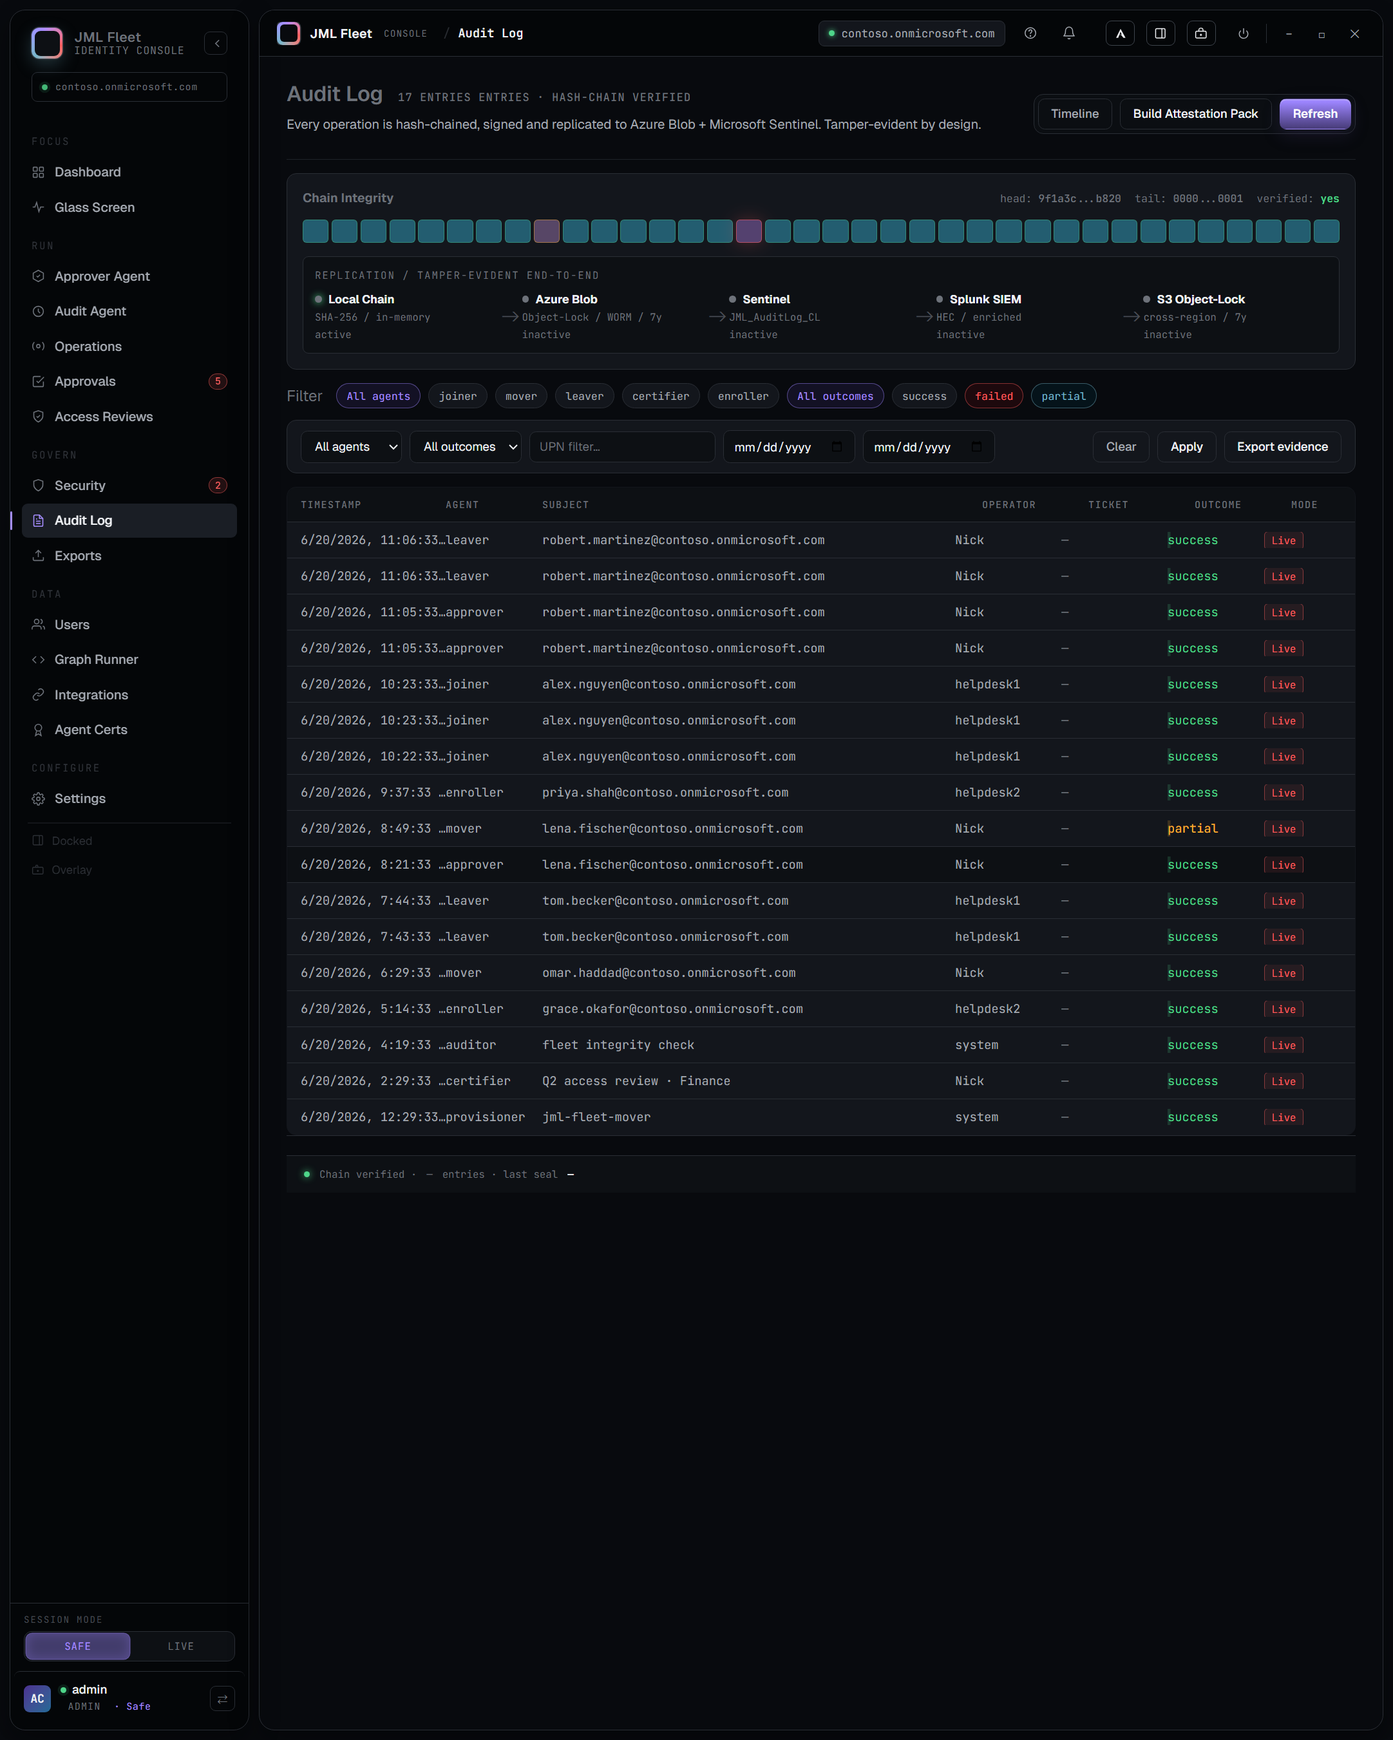
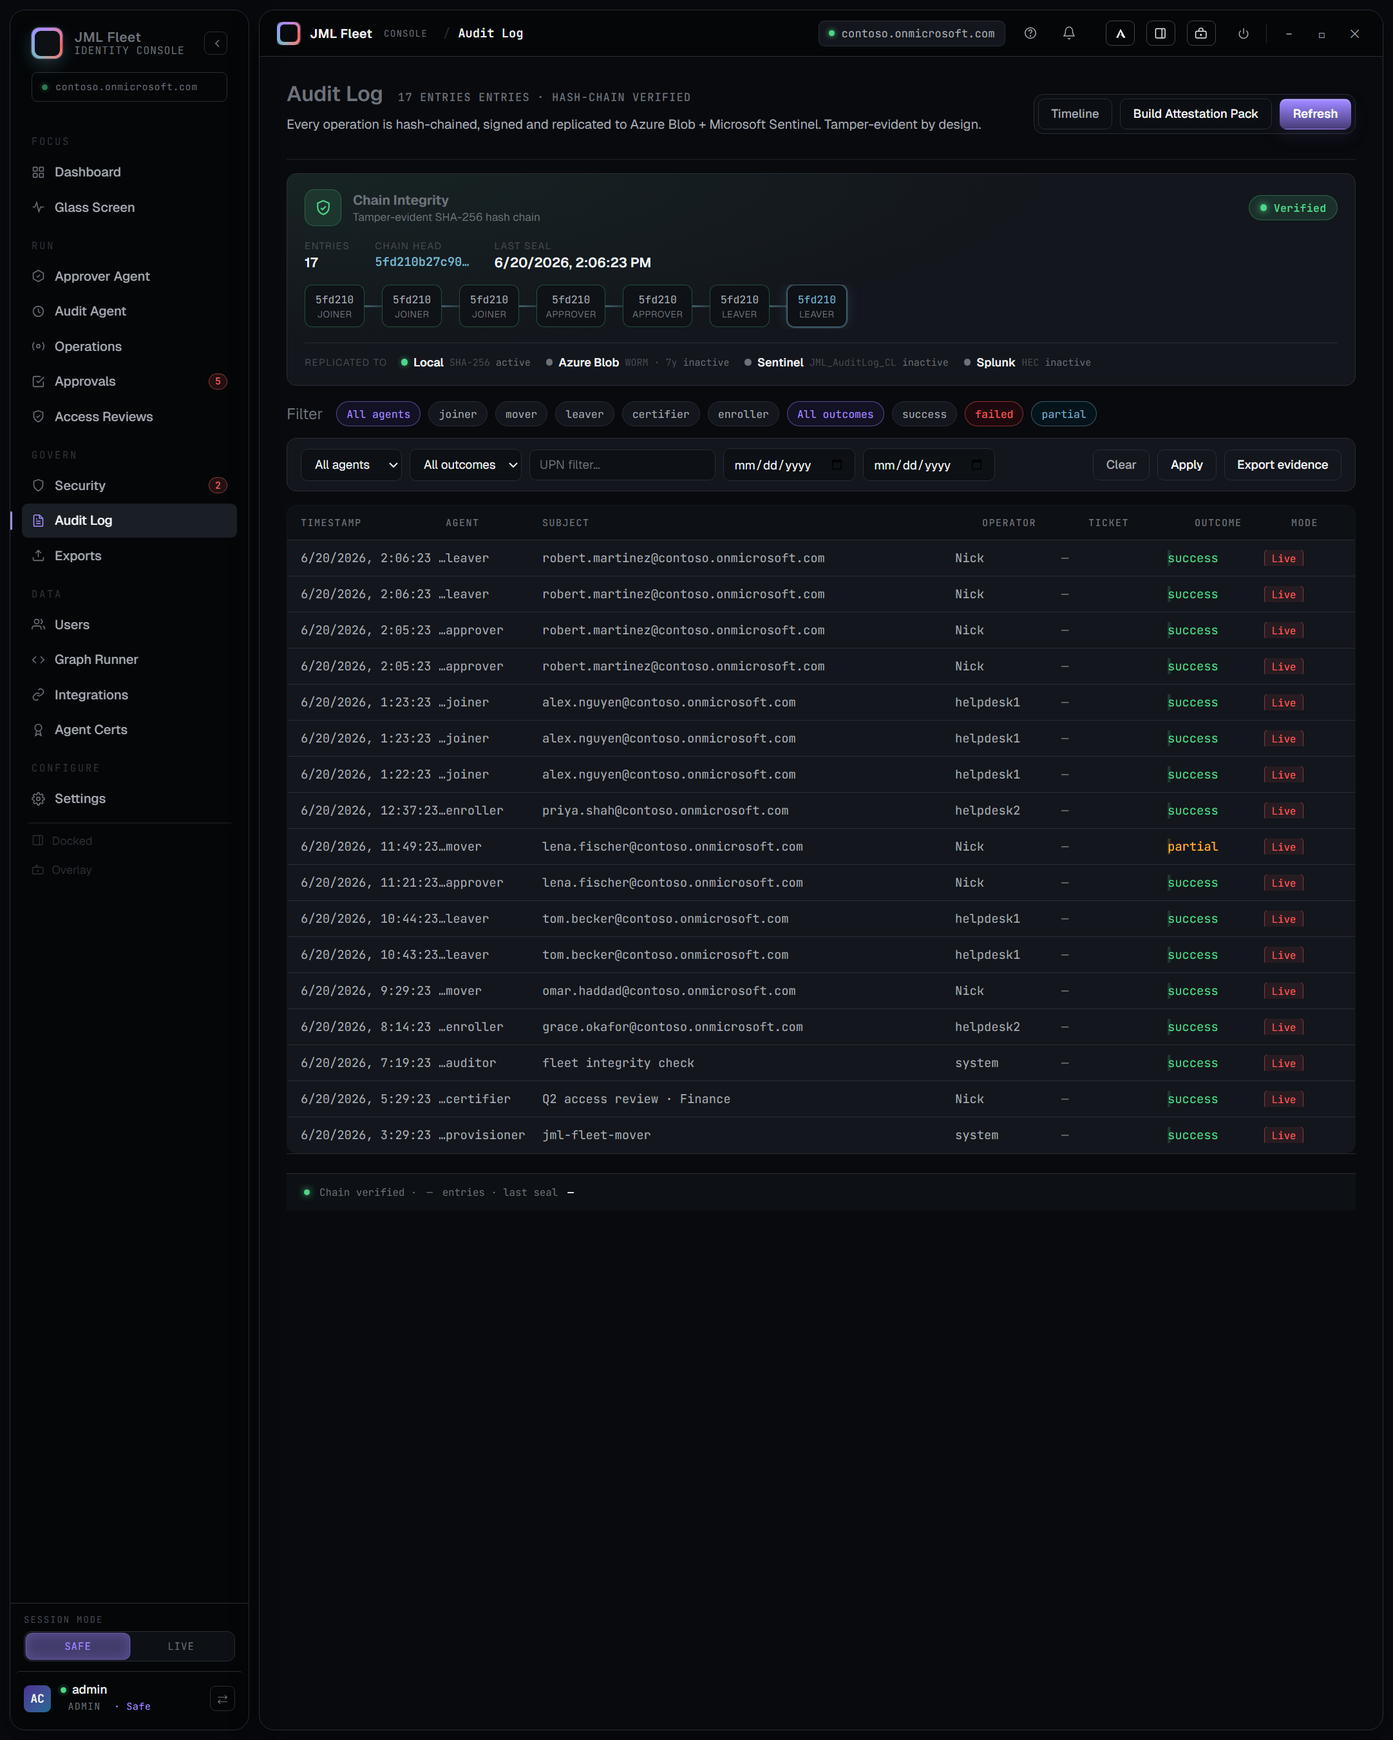
Audit Log: revamp the Chain Integrity panel (data-driven, modern)
The old panel was stale and misleading: hardcoded head/tail hashes, a 36-square
decorative "blockchain" grid (with static warn/crit blocks on a verified chain),
and an S3 hop that was never wired.

Replaced with a clean, data-driven card:
- Real verification: checks the actual prevHash->hash linkage across the audit
  entries and flips a Verified / Broken-link badge accordingly.
- Real stats: entry count, chain head hash, last seal time.
- The decorative grid is replaced by the ACTUAL recent chain links rendered as
  connected nodes (hash fragment + agent, head highlighted), newest on the right.
- Replication strip cleaned up (Local/Blob/Sentinel/Splunk, all real-wired; S3
  removed). Modern shield + badge styling cohesive with the rest of the console.
- Demo audit data now carries a coherent synthetic hash chain so the panel
  renders realistically in capture/demo mode. Screenshot refreshed.

127 tests pass; GUI capture verified.

diff --git a/electron-app/renderer/styles.css b/electron-app/renderer/styles.css
@@ -4681,99 +4681,90 @@ label { font-size: 12.5px; color: var(--text-2); }
 .gl-label { color: var(--text-3); font-size: 12px; }
 .gl-val { color: var(--text); font-size: 12px; font-weight: 500; }
 
-.v2-chain-integrity {
-  margin-bottom: 14px;
-  padding: 16px;
+/* ── Chain Integrity panel (Audit Log) ─────────────────────────── */
+.chain-integrity-card {
+  margin-bottom: 16px;
+  padding: 16px 18px;
   border: 1px solid var(--border);
-  border-radius: var(--r-lg);
-  background: var(--surface);
+  border-radius: var(--r-lg, 14px);
+  background:
+    radial-gradient(120% 140% at 0% 0%, color-mix(in oklch, var(--ok) 7%, transparent), transparent 60%),
+    var(--surface, var(--bg-1));
+  position: relative;
+  overflow: hidden;
 }
-.v2-chain-integrity .chain-head {
-  display: flex;
-  justify-content: space-between;
-  gap: 14px;
-  align-items: baseline;
-  margin-bottom: 14px;
+.chain-integrity-card[data-verified="false"] {
+  background:
+    radial-gradient(120% 140% at 0% 0%, color-mix(in oklch, var(--coral) 9%, transparent), transparent 60%),
+    var(--surface, var(--bg-1));
+  border-color: color-mix(in oklch, var(--coral) 35%, var(--border));
 }
-.v2-chain-integrity h3 {
-  margin: 0;
-  font-size: 13px;
-  font-weight: 650;
+.ci-head { display: flex; align-items: center; gap: 12px; }
+.ci-shield {
+  display: grid; place-items: center; width: 38px; height: 38px; flex-shrink: 0;
+  border-radius: 10px; color: var(--ok);
+  background: color-mix(in oklch, var(--ok) 12%, transparent);
+  border: 1px solid color-mix(in oklch, var(--ok) 30%, transparent);
 }
-.v2-chain-integrity .chain-meta {
-  display: flex;
-  gap: 14px;
-  font-family: var(--mono);
-  font-size: 11px;
-  color: var(--text-3);
+.chain-integrity-card[data-verified="false"] .ci-shield {
+  color: var(--coral); background: color-mix(in oklch, var(--coral) 12%, transparent);
+  border-color: color-mix(in oklch, var(--coral) 35%, transparent);
 }
-.v2-chain-blocks {
-  display: grid;
-  grid-template-columns: repeat(36, 1fr);
-  gap: 3px;
-  margin-bottom: 14px;
+.ci-titles { display: flex; flex-direction: column; gap: 1px; }
+.ci-titles h3 { margin: 0; font-size: 14px; font-weight: 650; letter-spacing: -0.01em; }
+.ci-sub { font-size: 11.5px; color: var(--muted); }
+.ci-badge {
+  margin-left: auto; display: inline-flex; align-items: center; gap: 7px;
+  padding: 5px 11px; border-radius: 999px;
+  font-family: var(--mono); font-size: 11px; font-weight: 600; letter-spacing: .02em;
+  background: color-mix(in oklch, var(--ok) 14%, transparent);
+  color: var(--ok); border: 1px solid color-mix(in oklch, var(--ok) 32%, transparent);
 }
-.v2-chain-block {
-  height: 24px;
-  border-radius: var(--r-sm);
-  background: color-mix(in oklch, var(--ok) 35%, var(--surface-3));
-  border: 1px solid color-mix(in oklch, var(--ok) 38%, transparent);
+.ci-badge.crit { background: color-mix(in oklch, var(--coral) 14%, transparent); color: var(--coral); border-color: color-mix(in oklch, var(--coral) 38%, transparent); }
+.ci-badge.muted { background: color-mix(in oklch, var(--muted) 12%, transparent); color: var(--muted); border-color: var(--border); }
+.ci-badge-dot { width: 7px; height: 7px; border-radius: 50%; background: currentColor; box-shadow: 0 0 7px currentColor; }
+
+.ci-stats { display: flex; flex-wrap: wrap; gap: 26px; margin: 14px 0 4px; }
+.ci-stat { display: flex; flex-direction: column; gap: 2px; }
+.ci-stat-lbl { font-size: 10px; letter-spacing: .1em; text-transform: uppercase; color: var(--text-4, var(--muted)); }
+.ci-stat-val { font-size: 14px; font-weight: 600; color: var(--text); }
+.ci-stat-val.mono { font-family: var(--mono); font-size: 12.5px; color: var(--cyan); }
+
+/* Real recent hash-chain links — newest on the right, connected. */
+.ci-links { display: flex; align-items: center; gap: 0; margin: 14px 0; overflow-x: auto; padding-bottom: 2px; }
+.ci-links .ci-empty { font-size: 12px; color: var(--muted); padding: 6px 0; }
+.ci-node {
+  flex-shrink: 0; display: flex; flex-direction: column; align-items: center; gap: 2px;
+  min-width: 62px; padding: 7px 9px; border-radius: 8px;
+  border: 1px solid var(--border); background: color-mix(in oklch, var(--bg-2) 70%, transparent);
 }
-.v2-chain-block.warn {
-  background: color-mix(in oklch, var(--warn) 28%, var(--surface-3));
-  border-color: color-mix(in oklch, var(--warn) 45%, transparent);
+.ci-node-hash { font-family: var(--mono); font-size: 11px; color: var(--text-2); }
+.ci-node-agent { font-size: 9.5px; letter-spacing: .04em; text-transform: uppercase; color: var(--muted); }
+.ci-node[data-outcome="success"] { border-color: color-mix(in oklch, var(--ok) 32%, transparent); }
+.ci-node[data-outcome="failed"]  { border-color: color-mix(in oklch, var(--coral) 40%, transparent); }
+.ci-node[data-outcome="partial"] { border-color: color-mix(in oklch, var(--warn) 40%, transparent); }
+.ci-node.head {
+  border-color: color-mix(in oklch, var(--cyan) 55%, transparent);
+  box-shadow: 0 0 0 1px color-mix(in oklch, var(--cyan) 30%, transparent), 0 0 16px color-mix(in oklch, var(--cyan) 16%, transparent);
 }
-.v2-chain-block.crit {
-  background: color-mix(in oklch, var(--crit) 34%, var(--surface-3));
-  border-color: color-mix(in oklch, var(--crit) 55%, transparent);
-  box-shadow: 0 0 18px color-mix(in oklch, var(--crit) 25%, transparent);
+.ci-node.head .ci-node-hash { color: var(--cyan); }
+.ci-link-line {
+  flex-shrink: 0; width: 18px; height: 2px; align-self: center;
+  background: linear-gradient(90deg, color-mix(in oklch, var(--cyan) 45%, transparent), color-mix(in oklch, var(--cyan) 20%, transparent));
 }
 
-.v2-replication-chain {
-  padding: 12px;
-  border: 1px solid var(--border);
-  border-radius: var(--r-md);
-  background: var(--bg-2);
+.ci-replication {
+  margin-top: 12px; padding-top: 12px; border-top: 1px solid var(--border);
+  display: flex; align-items: center; gap: 14px; flex-wrap: wrap;
 }
-.v2-replication-chain .rep-title {
-  margin-bottom: 10px;
-  font-family: var(--mono);
-  font-size: 10.5px;
-  letter-spacing: .12em;
-  text-transform: uppercase;
-  color: var(--text-3);
-}
-.v2-replication-hops {
-  display: flex;
-  align-items: stretch;
-  gap: 0;
-}
-.v2-replication-hop {
-  flex: 1;
-  min-width: 0;
-  display: grid;
-  gap: 4px;
-}
-.v2-replication-hop .label {
-  display: flex;
-  align-items: center;
-  gap: 7px;
-  font-size: 12px;
-  font-weight: 650;
-  color: var(--text);
-}
-.v2-replication-hop .sub,
-.v2-replication-hop .latency {
-  font-family: var(--mono);
-  font-size: 10.5px;
-  color: var(--text-3);
-}
-.v2-replication-arrow {
-  width: 24px;
-  display: grid;
-  place-items: center;
-  color: var(--text-4);
-}
+.ci-rep-title { font-size: 10px; letter-spacing: .1em; text-transform: uppercase; color: var(--text-4, var(--muted)); }
+.ci-rep-hops { display: flex; flex-wrap: wrap; gap: 16px; }
+.ci-hop { display: inline-flex; align-items: center; gap: 6px; font-size: 12px; font-weight: 600; color: var(--text); }
+.ci-hop .dot { width: 7px; height: 7px; border-radius: 50%; background: var(--muted); flex-shrink: 0; }
+.ci-hop .dot.ok { background: var(--ok); box-shadow: 0 0 6px color-mix(in oklch, var(--ok) 60%, transparent); }
+.ci-hop .dot.crit { background: var(--coral); box-shadow: 0 0 6px color-mix(in oklch, var(--coral) 60%, transparent); }
+.ci-hop-sub { font-family: var(--mono); font-size: 10px; font-weight: 400; color: var(--text-4, var(--muted)); }
+.ci-hop-stat { font-family: var(--mono); font-size: 10px; font-weight: 400; color: var(--muted); }
 
 .v2-filter-chips {
   display: flex;

diff --git a/electron-app/renderer/index.html b/electron-app/renderer/index.html
@@ -1592,35 +1592,30 @@
             </div>
           </div>
 
-          <div class="v2-chain-integrity">
-            <div class="chain-head">
-              <h3>Chain Integrity</h3>
-              <div class="chain-meta">
-                <span>head: <b>9f1a3c...b820</b></span>
-                <span>tail: <b>0000...0001</b></span>
-                <span>verified: <b style="color:var(--ok)">yes</b></span>
+          <div class="chain-integrity-card" id="chain-integrity" data-verified="true">
+            <div class="ci-head">
+              <span class="ci-shield" id="ci-shield" aria-hidden="true">
+                <svg viewBox="0 0 24 24" fill="none" stroke="currentColor" stroke-width="1.7" width="20" height="20"><path d="M12 3l7 3v5c0 4.5-3 7.5-7 9-4-1.5-7-4.5-7-9V6l7-3z"/><path d="M9 12l2 2 4-4"/></svg>
+              </span>
+              <div class="ci-titles">
+                <h3>Chain Integrity</h3>
+                <span class="ci-sub">Tamper-evident SHA-256 hash chain</span>
               </div>
+              <span class="ci-badge ok" id="ci-badge"><span class="ci-badge-dot"></span><span id="ci-badge-text">Verified</span></span>
             </div>
-            <div class="v2-chain-blocks" aria-label="Hash-chain block sample">
-              <span class="v2-chain-block"></span><span class="v2-chain-block"></span><span class="v2-chain-block"></span><span class="v2-chain-block"></span><span class="v2-chain-block"></span><span class="v2-chain-block"></span>
-              <span class="v2-chain-block"></span><span class="v2-chain-block"></span><span class="v2-chain-block warn"></span><span class="v2-chain-block"></span><span class="v2-chain-block"></span><span class="v2-chain-block"></span>
-              <span class="v2-chain-block"></span><span class="v2-chain-block"></span><span class="v2-chain-block"></span><span class="v2-chain-block crit"></span><span class="v2-chain-block"></span><span class="v2-chain-block"></span>
-              <span class="v2-chain-block"></span><span class="v2-chain-block"></span><span class="v2-chain-block"></span><span class="v2-chain-block"></span><span class="v2-chain-block"></span><span class="v2-chain-block"></span>
-              <span class="v2-chain-block"></span><span class="v2-chain-block"></span><span class="v2-chain-block"></span><span class="v2-chain-block"></span><span class="v2-chain-block"></span><span class="v2-chain-block"></span>
-              <span class="v2-chain-block"></span><span class="v2-chain-block"></span><span class="v2-chain-block"></span><span class="v2-chain-block"></span><span class="v2-chain-block"></span><span class="v2-chain-block"></span>
+            <div class="ci-stats">
+              <div class="ci-stat"><span class="ci-stat-lbl">Entries</span><span class="ci-stat-val" id="ci-entries">—</span></div>
+              <div class="ci-stat"><span class="ci-stat-lbl">Chain head</span><span class="ci-stat-val mono" id="ci-head">—</span></div>
+              <div class="ci-stat"><span class="ci-stat-lbl">Last seal</span><span class="ci-stat-val" id="ci-seal">—</span></div>
             </div>
-            <div class="v2-replication-chain">
-              <div class="rep-title">Replication / tamper-evident end-to-end</div>
-              <div class="v2-replication-hops">
-                <div class="v2-replication-hop"><span class="label"><span class="dot ok" id="rep-dot-local"></span>Local Chain</span><span class="sub">SHA-256 / in-memory</span><span class="latency">active</span></div>
-                <span class="v2-replication-arrow">-&gt;</span>
-                <div class="v2-replication-hop"><span class="label"><span class="dot" id="rep-dot-blob"></span>Azure Blob</span><span class="sub">Object-Lock / WORM / 7y</span><span class="latency" id="rep-lat-blob">inactive</span></div>
-                <span class="v2-replication-arrow">-&gt;</span>
-                <div class="v2-replication-hop"><span class="label"><span class="dot" id="rep-dot-sentinel"></span>Sentinel</span><span class="sub">JML_AuditLog_CL</span><span class="latency" id="rep-lat-sentinel">inactive</span></div>
-                <span class="v2-replication-arrow">-&gt;</span>
-                <div class="v2-replication-hop"><span class="label"><span class="dot" id="rep-dot-splunk"></span>Splunk SIEM</span><span class="sub">HEC / enriched</span><span class="latency" id="rep-lat-splunk">inactive</span></div>
-                <span class="v2-replication-arrow">-&gt;</span>
-                <div class="v2-replication-hop"><span class="label"><span class="dot" id="rep-dot-s3"></span>S3 Object-Lock</span><span class="sub">cross-region / 7y</span><span class="latency" id="rep-lat-s3">inactive</span></div>
+            <div class="ci-links" id="ci-links" aria-label="Recent hash-chain links"></div>
+            <div class="ci-replication">
+              <span class="ci-rep-title">Replicated to</span>
+              <div class="ci-rep-hops">
+                <span class="ci-hop"><span class="dot ok" id="rep-dot-local"></span>Local<span class="ci-hop-sub">SHA-256</span><span class="ci-hop-stat" id="rep-lat-local">active</span></span>
+                <span class="ci-hop"><span class="dot" id="rep-dot-blob"></span>Azure Blob<span class="ci-hop-sub">WORM · 7y</span><span class="ci-hop-stat" id="rep-lat-blob">inactive</span></span>
+                <span class="ci-hop"><span class="dot" id="rep-dot-sentinel"></span>Sentinel<span class="ci-hop-sub">JML_AuditLog_CL</span><span class="ci-hop-stat" id="rep-lat-sentinel">inactive</span></span>
+                <span class="ci-hop"><span class="dot" id="rep-dot-splunk"></span>Splunk<span class="ci-hop-sub">HEC</span><span class="ci-hop-stat" id="rep-lat-splunk">inactive</span></span>
               </div>
             </div>
           </div>

diff --git a/electron-app/renderer/app.js b/electron-app/renderer/app.js
@@ -2487,6 +2487,56 @@ function renderAuditPage() {
   }
 }
 
+// Chain Integrity panel (Audit Log) — real verification from the hash chain.
+// Each entry's prevHash should equal the next (older) entry's hash; any break
+// flips the badge. Renders the actual recent links instead of a decorative grid.
+function renderChainIntegrity(entries) {
+  const card = document.getElementById('chain-integrity');
+  if (!card) return;
+  const list = Array.isArray(entries) ? entries : [];
+  const set = (id, txt) => { const el = document.getElementById(id); if (el) el.textContent = txt; };
+  const badge = document.getElementById('ci-badge');
+  const linksEl = document.getElementById('ci-links');
+
+  if (!list.length) {
+    card.dataset.verified = 'true';
+    set('ci-entries', '0'); set('ci-head', '—'); set('ci-seal', '—'); set('ci-badge-text', 'No entries');
+    if (badge) badge.className = 'ci-badge muted';
+    if (linksEl) linksEl.innerHTML = '<span class="ci-empty">No sealed entries yet.</span>';
+    return;
+  }
+
+  // Verify linkage across the chain (entries are newest-first).
+  let verified = true;
+  for (let i = 0; i < list.length - 1; i++) {
+    const a = list[i], b = list[i + 1];
+    if (a && b && a.prevHash && b.hash && a.prevHash !== b.hash) { verified = false; break; }
+  }
+  const head = list[0];
+  card.dataset.verified = String(verified);
+  set('ci-entries', list.length.toLocaleString());
+  set('ci-head', head.hash ? String(head.hash).slice(0, 12) + '…' : '—');
+  set('ci-seal', head.timestamp ? new Date(head.timestamp).toLocaleString() : '—');
+  set('ci-badge-text', verified ? 'Verified' : 'Broken link');
+  if (badge) badge.className = 'ci-badge ' + (verified ? 'ok' : 'crit');
+
+  if (linksEl) {
+    const recent = list.slice(0, 7).reverse(); // oldest → newest (head on the right)
+    linksEl.innerHTML = recent.map((e, idx) => {
+      const isHead = idx === recent.length - 1;
+      const oc = String(e.outcome || '').toLowerCase();
+      const h = e.hash ? String(e.hash).slice(0, 6) : '······';
+      const ag = String(e.agent || '—').slice(0, 9);
+      const tip = `${ag} · ${(e.subject || '').split('@')[0] || ''} · ${e.hash || 'no hash'}`;
+      return `${idx > 0 ? '<span class="ci-link-line"></span>' : ''}` +
+        `<span class="ci-node${isHead ? ' head' : ''}" data-outcome="${escHtml(oc)}" title="${escHtml(tip)}">` +
+          `<span class="ci-node-hash">${escHtml(h)}</span>` +
+          `<span class="ci-node-agent">${escHtml(ag)}</span>` +
+        `</span>`;
+    }).join('');
+  }
+}
+
 window.api.onAuditLogData((entries) => {
   // Feed Operations kanban Completed-today column from audit log
   _opsAuditEntries = entries || [];
@@ -2506,6 +2556,8 @@ window.api.onAuditLogData((entries) => {
     const headEl = document.getElementById('dash-audit-head');
     if (headEl && last && last.hash) headEl.textContent = String(last.hash).slice(0, 12) + '…';
   }
+
+  renderChainIntegrity(Array.isArray(entries) ? entries : []);
 
   const countEl = document.getElementById('log-count');
   if (!entries.length) {

diff --git a/electron-app/main.js b/electron-app/main.js
@@ -3997,6 +3997,25 @@ const MOCK_AUDIT = [
   { timestamp: _iso(520), agent: 'certifier',action: 'review.campaign.start',        subject: 'Q2 access review · Finance',               operator: 'Nick', outcome: 'success', ticketRef: '', whatif: false, details: { scope: 'Finance-Admins' } },
   { timestamp: _iso(640), agent: 'provisioner', action: 'cert.rotate',               subject: 'jml-fleet-mover',                         operator: 'system', outcome: 'success', ticketRef: '', whatif: false, details: {} },
 ];
+// Give the demo entries a coherent hash chain so the Chain Integrity panel shows
+// a realistic, verifiable chain (newest-first: each entry's prevHash === the
+// next/older entry's hash). Deterministic 64-hex synthesis — demo only.
+(function chainMockAudit() {
+  const synth = (s) => {
+    let h = 0x811c9dc5 >>> 0, out = '';
+    for (let k = 0; k < 64; k++) {
+      h ^= (s.charCodeAt(k % s.length) || (k + 7));
+      h = Math.imul(h, 0x01000193) >>> 0;
+      out += ((h >>> (k % 24)) & 0xf).toString(16);
+    }
+    return out;
+  };
+  for (let i = MOCK_AUDIT.length - 1; i >= 0; i--) {
+    const e = MOCK_AUDIT[i];
+    e.prevHash = (i === MOCK_AUDIT.length - 1) ? '0'.repeat(64) : MOCK_AUDIT[i + 1].hash;
+    e.hash = synth(e.timestamp + '|' + e.agent + '|' + e.action + '|' + e.subject + '|' + e.prevHash);
+  }
+})();
 // HRIS inbound queue (dashboard "identity work origin" lane + Integrations tab)
 const MOCK_HR = { queueDepth: 3, processing: 1, dlq: 0, events: [
   { eventType: 'employee.terminated', upn: 'robert.martinez@contoso.onmicrosoft.com', status: 'processed',  timestamp: _iso(4),  source: 'bamboohr', subject: 'robert.martinez@contoso.onmicrosoft.com', type: 'employee.terminated', agent: 'leaver' },
